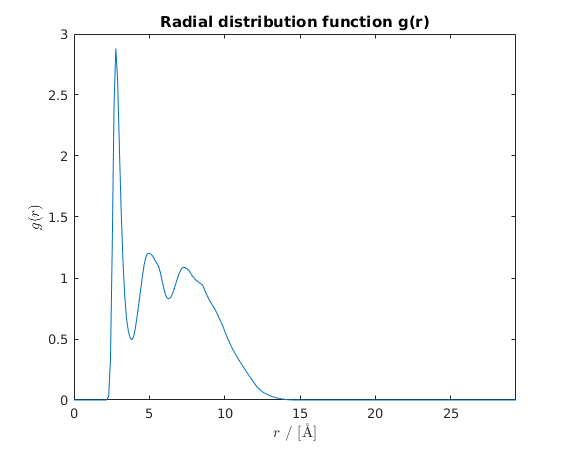
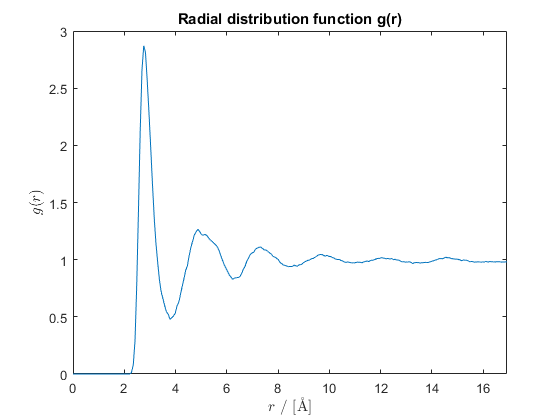
New take on task8

diff --git a/code/Task8/MD_main_tmp.c b/code/Task8/MD_main_tmp.c
@@ -36,7 +36,7 @@ int main()
     double lattice_param;   // Lattice parameter, length of each side in the
                             // unit cell
     double timestep;
-    double temperature_eq[] = { 1000.0+273.15, 700.0+273.15 };
+    double temperature_eq[] = { 1500.0+273.15, 700.0+273.15 };
     double pressure_eq = 101325e-11/1.602; // 1 atm in ASU
     double isothermal_compressibility = 1.0; //0.8645443196; // 1.385e-11 m^2/N = 1.385/1.602 Å^3/eV
 
@@ -259,56 +259,93 @@ int main()
 
     double factor = PI*2.0/cell_length;
 
-    #define qs(i,d) (qs_arr[(nbr_of_dimensions)*i+d])
-    double* qs_arr = (double*)malloc((2*n_x+1)*(2*n_y+1)*(2*n_z+1)*(nbr_of_dimensions)*sizeof(double));
+    double qS[n_x][n_y][n_z][3];
+    for (int i = ceil(-n_x/2); i < floor(n_x/2); i++)
+        for (int j = ceil(-n_y/2); j < floor(n_y/2) ; j++)
+            for (int k = ceil(-n_z/2); k < floor(n_z/2); k++){
+                    int idx1=i+ceil(n_x/2);
+                    int idx2=j+ceil(n_y/2);
+                    int idx3=k+ceil(n_z/2);
+                    qS[idx1][idx2][idx3][0]=i*factor;
+                    qS[idx1][idx2][idx3][1]=j*factor;
+                    qS[idx1][idx2][idx3][2]=k*factor;
+                }
 
-    int nk = 0;
-    for (int i = -n_x; i < n_x; i++)
-        for (int j = -n_y; j< n_y; j++)
-            for (int k = -n_z; k < n_z ; k++)
+    double s[n_x][n_y][n_z];
+    for (int i = 0; i < n_x; i++)
+        for (int j = 0; j < n_y ; j++)
+            for (int k = 0; k < n_z; k++)
             {
-                qs(nk,0)=i*factor;
-                qs(nk,1)=j*factor;
-                qs(nk,2)=k*factor;
-                nk++;
+                if ( !((i==j) && (i==k) && (i==0))){
+                    double complex sum = 0;
+                    for (int r=0; r < nbr_of_particles; r++)
+                    {
+                        double complex expo=0;
+                        for (int d = 0; d < nbr_of_dimensions; d++)
+                        {
+                            double ri = q[r][d];
+                            ri=boundary_condition(ri,cell_length); // TODO check if right
+                            expo+= qS[i][j][k][d]*ri;
+                        }
+                        expo=expo*I;
+                        sum+= cexp(expo);
+                    }
+                    sum = cabs(sum);
+                    sum=sum*sum/nbr_of_particles;
+                    s[i][j][k]=sum;
+                }
             }
 
-    #define s(i,q) (s_arr[2*i+q])
-    double* s_arr = (double*)malloc((2*n_x+1)*(2*n_y+1)*(2*n_z+1)*(2)*sizeof(double));
-
-    for (int i = 1; i < nk; i++)
+    double data[n_x*n_y*n_z];
+    double dis[n_x*n_y*n_z];
+    int iterator =0;
+    for (int i = 0; i < n_x; i++)
+        for (int j = 0; j < n_y ; j++)
+            for (int k = 0; k < n_z; k++)
+            {
+                double dist1 = i-ceil(n_x);
+                double dist2 = i-ceil(n_y);
+                double dist3 = i-ceil(n_z);
+                dist1 = dist1*dist1;
+                dist2 = dist2*dist2;
+                dist3 = dist3*dist3;
+                dis[iterator] =sqrt(dist1+dist2+dist3);
+                data[iterator] = s[i][j][k];
+                iterator++;
+            }
+    double max =0;
+    double min = 1e10;
+    for (int i = 0; i < n_x*n_y*n_z; i++ )
     {
-        double complex sum = 0;
-        double len_sq = 0;
-        for (int d = 0; d < nbr_of_dimensions; d++)
-        {
-            len_sq += qs(i,d)*qs(i,d);
-        }
-        len_sq = sqrt(len_sq);
-        for (int r=0; r < nbr_of_particles; r++)
-        {
-            double complex expo=0;
-            for (int d = 0; d < nbr_of_dimensions; d++)
-            {
-                double ri = q[r][d];
-                ri=boundary_condition(ri,cell_length); // TODO check if right
-                expo+= qs(i,d)*ri;
-            }
-            expo=expo*I;
-            sum+= cexp(expo);
-        }
-        sum = cabs(sum);
-        sum=sum*sum/nbr_of_particles;
-        s(i,0)=sum;
-        s(i,1) = len_sq;
+        if (dis[i] > max)
+            max = dis[i];
+        if (dis[i] < min)
+            min = dis[i];
     }
 
-    file = fopen("sq.dat","w");
-    for (int i = 0; i < n_x*n_y*n_z; i ++) {
-        fprintf(file, "%e \t %e \n", s(i,0), s(i,1));
+    int k_bins=200;
+    double d_r = (max-min)/(1.0*k_bins);
+    int bins[k_bins];
+    for (int i = 0; i < n_x*n_y*n_z; i++)
+    {
+        int bin = get_bin(data[i],min,max,d_r);
+        bins[bin]++;
     }
+
+    file = fopen("data.dat","w");
+    for (int i = 0; i < k_bins; i++)
+    {
+        fprintf(file, "%e \t %i \n", (double)(min+d_r*i*1.0), bins[i]);
+    }
+
     fclose(file);
-
+    /*
+    file = fopen("data.dat","w");
+    for (int i = 0; i < n_x*n_y*n_z; i ++)
+    {
+        fprintf(file, "%e \t %e \n",dis[i],data[i] );
+    }
+    fclose(file);*/
 
     free(energy_kin);		energy_kin = NULL;
     free(energy); 			energy = NULL;

diff --git a/report/report.tex b/report/report.tex
@@ -164,7 +164,7 @@ If we compare these results to those from the previous problem we see that they 
 
 \section*{Problem 7}
 
-The radial distribution function obtained can be found in figure~\ref{fig:radial}. Using Matlab we find that the first peak is at the distance 2.85 \r{A}, which corresponds to the shortest distance in a fcc structure with the unit cell length of 4.046 \r{A}. This is the distance between one of the corner atoms and a face centered atom close to that corner, which is expected. The other larger peaks are around 5 \r{A} and 7.17 \r{A}. These align with the two next shortest distances in an fcc structure.
+The radial distribution function obtained can be found in figure~\ref{fig:radial}. Using Matlab we find that the first peak is at the distance 2.85 \r{A}, which corresponds to the shortest distance in a fcc structure with the unit cell length of 4.046 \r{A}. This is the distance between one of the corner atoms and a face centered atom close to that corner, which is expected.
 
 \begin{figure}[H]
 \centering

diff --git a/code/Task7/MD_main.c b/code/Task7/MD_main.c
@@ -189,7 +189,8 @@ int main()
 
     // Compute energies, temperature etc. at equilibrium
     double min = 0.0;
-    double max = sqrt(3*cell_length*cell_length);
+    //double max = sqrt(3.0*cell_length*cell_length/2.0);
+    double max = cell_length;
     double d_r = (max-min)/(1.0*k_bins);
     int bins[k_bins];
     int* bins2 = (int*) malloc(k_bins * sizeof(int));
@@ -313,8 +314,10 @@ double boundary_condition_dist_sq(double u1[3], double u2[3], double L)
 	    u2[i] /= L;
 
 	    u1[i] -= floor(u1[i]);
-	    d[i] = u1[i] - (u2[i] - floor(u2[i]));
-	    d[i] -= (double)((int)floor(d[i]+0.5));
+        u2[i] -= floor(u2[i]);
+	    d[i] = u1[i] - u2[i];
+	    //d[i] -= (double)((int)floor(d[i]+0.5));
+        d[i] -= (double)((int)floor(d[i]));
 	}
 
 	double sum = 0.0;

diff --git a/code/Task8/plot_histogram2.m b/code/Task8/plot_histogram2.m
@@ -8,7 +8,7 @@ data = importdata('../Task7/histogram.dat');
 figure;
 %%plot(data(:,2))
 
-g=data(:,3)./data(:,4)/1000/256;
+g=data(:,3)./data(:,4)/1000/32;
 
 %plot(data(:,1),g)
 
@@ -19,7 +19,7 @@ integr=@(q)sum(data(1:nDats,1).^2.*(g(1:nDats)-1).*sin(q*data(1:nDats,1))./(data
 s=@(q)1+4*pi*100*integr(q);
 
 
-c=linspace(2,25,5000);
+c=linspace(5,25,5000);
 
 for i=1:5000
     b(i)=s(c(i));

diff --git a/code/Task8/plot_sq.m b/code/Task8/plot_sq.m
@@ -1,0 +1,24 @@
+clear all, close all, clc
+
+data=importdata('sq.dat');
+
+[Y,I]=sort(data(:,2));
+
+dataPlot=data(I,1);
+
+binSize=0.4;
+nBins= ceil(max(Y)/binSize);
+
+bins=zeros(1,nBins);
+
+for j=1:length(Y)
+    len=Y(j);
+    for i=1:nBins
+        if len< i*binSize
+            bins(i)=+dataPlot(i);
+            break;
+        end
+    end    
+end
+
+plot(bins)

diff --git a/code/Task8/plot_data.m b/code/Task8/plot_data.m
@@ -8,7 +8,7 @@ data2= importdata('data2.dat');
 
 % plot
 figure;
-startx = 1;
+startx = 10;
 plot(data(startx:end,1),data(startx:end,2),'-')
 
 title('Simulated Static structure factor')
